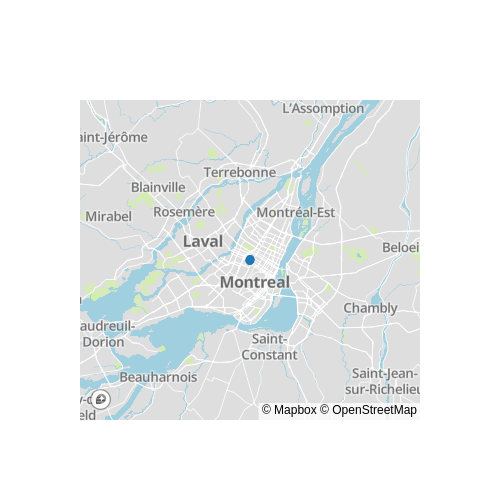
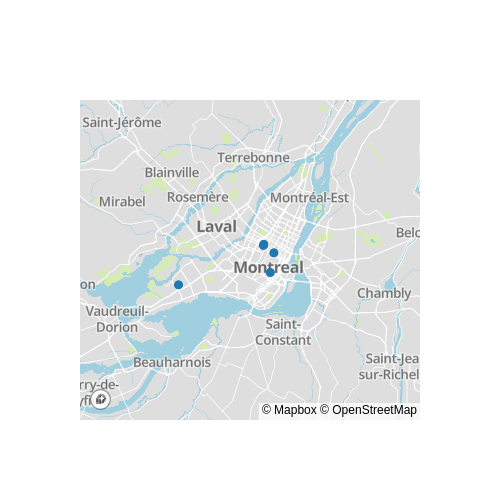
async prototype works

diff --git a/index.js b/index.js
@@ -8,23 +8,6 @@ const fs = require('fs');
 var FormData = require('form-data');
 
 
-// async function asyncTask () {
-//   try {
-//     // coords is errormsg or places array
-//     const places = await getCoords();
-//     const coords = await cleanCoords(places);
-//     const file_location = await plot.makePlot(clean_coords);
-
-//     const mediaId = await getMediaId(fileLocation);
-//     // console.log("returning info from getCoords\n",coords)
-//     const requestConfig = await buildConfig(message,senderScreenName,coords,mediaId)
-//     //console.log(requestConfig);
-//     return await post(requestConfig);
-//   } catch (err) {
-//     console.log(err);
-//   }
-// }
-
 const post = util.promisify(request.post);
 
 
@@ -35,44 +18,47 @@ const oAuthConfig = {
   consumer_secret: process.env.TWITTER_CONSUMER_SECRET,
 };
 
-const botId = "24737459"
+const botId = process.env.BOT_ID;
 const errorMsg = "No results returned";
 const errorGeo = "No geo results";
+const pngLocation = './res.png'
+
 
 async function cleanCoords(rawCoords) {
-  console.log("places array", rawCoords);
+  console.log("raw Coords", rawCoords);
   var clean_coords = [];
   rawCoords.forEach(function(item,index) {
     clean_coords.push(item.geo.bbox.slice(0,2))
   });
   return clean_coords
 }
-//UPLOAD FILE AND GET MEDIA ID
-async function getMediaId(fileLocation) {
-  console.log("IN MEDIA ID here is fileLocation", fileLocation);
-  var data = new FormData();
-  data.append('media_data', fs.createReadStream(fileLocation));
 
-  var configMediaId = {
+//UPLOAD FILE AND GET MEDIA ID
+async function getMediaId(base64Location) {
+  var data = new FormData();
+  data.append('media_data', fs.createReadStream(base64Location));
+
+  var config = {
     method: 'post',
     url: 'https://upload.twitter.com/1.1/media/upload.json',
     headers: { 
-      'Authorization': 'OAuth oauth_consumer_key="pufmcF3kGmpDVFcvDbbYaengK",oauth_token="24737459-topbrUHGWHQkZXfMqctnOQ77XwAdr9ERAhlUOKG0s",oauth_signature_method="HMAC-SHA1",oauth_timestamp="1598194653",oauth_nonce="SZIm2rGaT4U",oauth_version="1.0",oauth_signature="R1hllzvQdzTDwbbPfpP9IWndFUk%3D"', 
-      'Cookie': 'personalization_id="v1_5lhFvw9qvMPnaFzOpi7UwA=="; guest_id=v1%3A159804355865560354; lang=en', 
+      'Authorization': `OAuth oauth_consumer_key=${oAuthConfig.consumer_key},oauth_token=${oAuthConfig.token},oauth_signature_method="HMAC-SHA1",oauth_timestamp="1598333093",oauth_nonce="MDtu575iz2J",oauth_version="1.0",oauth_signature="FrA5543kyHi1LS90UpemSkZbS6Q%3D"`, 
+      'Cookie': 'personalization_id="v1_xQuSglKogja1ug6Y/z6g1w=="; guest_id=v1%3A159804361564129710; lang=en', 
       ...data.getHeaders()
     },
     data : data
   };
+
   try {
-    const response = await axios(configMediaId)
+    const response = await axios(config)
     return response.data.media_id_string;
   }
   catch (error) {
     console.log('media ID error :(', error);
   }
-
 }
 
+// Uses Bearer token btw
 async function getCoords(hashtag) {
   var config = {
     method: 'get',
@@ -105,7 +91,7 @@ async function getCoords(hashtag) {
   }
 }
 
-async function errorConfig(message,senderScreenName,error_msg) {
+async function buildErrorConfig(message,senderScreenName,error_msg) {
   const requestConfig = {
     url: 'https://api.twitter.com/1.1/direct_messages/events/new.json',
     oauth: oAuthConfig,
@@ -188,21 +174,23 @@ async function mainLogic(event) {
   
   try {
 
-    // getCoords checks for errors then returns coordindates
+    // getCoords returns raw_coordinates or error message
     const raw_coords = await getCoords(cleanHashtag);
 
-    // getPlaces cleans the data, returns it
-    const cleanedCoords = await cleanCoords(raw_coords);
-
-    const fileLocation = './res.png'
-
-    const file64 = await plot.buildPlot(fileLocation,cleanedCoords)
-    console.log("what is file64", file64);
-    const mediaId = await getMediaId(file64);
-    // console.log("returning info from getCoords\n",coords)
-    const requestConfig = await buildConfig(message,senderScreenName,mediaId)
-    //console.log(requestConfig);
-    await post(requestConfig);
+    if (raw_coords == errorMsg || raw_coords == errorGeo) {
+      const errorConfig = await buildErrorConfig(message,senderScreenName,raw_coords);
+      await post(errorConfig);
+    }
+    else {
+      // getPlaces cleans the data, returns it
+      const cleanedCoords = await cleanCoords(raw_coords);
+      const base64Location = await plot.buildPlot(pngLocation,cleanedCoords)
+      const mediaId = await getMediaId(base64Location);
+      // console.log("returning info from getCoords\n",coords)
+      const requestConfig = await buildConfig(message,senderScreenName,mediaId)
+      //console.log(requestConfig);
+      await post(requestConfig);
+    }
 
   } catch (err) {
     console.log('we threw an error', err);
@@ -212,6 +200,7 @@ async function mainLogic(event) {
 (async start => {
   try {
     const webhook = new Autohook();
+
     // Calls mainlogic on any event
     webhook.on('event', async event => {
       if (event.direct_message_events) {

diff --git a/plot.js b/plot.js
@@ -1,13 +1,11 @@
-// const os = require('os');
-// const path = require('path');
+const os = require('os');
+const path = require('path');
 
-//require('dotenv').config({path: path.resolve(os.homedir(), '.env.twitter')});
-const PLOTLY_API= "1QIeQ64d1ovLY5OggTdv"
-const PLOTLY_USER= "tony-goss"
+require('dotenv').config({path: path.resolve(os.homedir(), '.env.twitter')});
 
 const util = require('util');
 
-var plotly = require('plotly')(PLOTLY_USER,PLOTLY_API)
+var plotly = require('plotly')(process.env.PLOTLY_USER,process.env.PLOTLY_API)
 var fs = require('fs');
 
 const l_util = require('./local_utils.js')
@@ -76,45 +74,43 @@ function makePlot(clean_coords) {
 
 //const promiseWritePlot = util.promisify(plotly.getImage);
 // Writes image to file on resolve
-let promiseWritePlot = function(mapConfig,fileLocation) {
+let promiseWritePlot = function(mapConfig,pngLocation) {
   return new Promise((resolve, reject) => {
     plotly.getImage(mapConfig.figure, mapConfig.imgOpts, (err, imageStream) => {
       if (err) reject(err)
       else {
-      	const fileStream = fs.createWriteStream('./res.png')
-      	imageStream.pipe(fileStream);
-      	resolve('./res.png');
+	      	const fileStream = fs.createWriteStream(pngLocation)
+	      	imageStream.pipe(fileStream);
+	      	fileStream.on('finish', () => {
+	  				console.log('All writes are now complete.');
+						readFile(pngLocation).then(function (data) {
+							console.log(`Length of the file1: ${data.length}`);
+							resolve(data);
+						});
+					});
       } 
     });
   })
 }
 
-/*
-let promiseTo64 = function(fileLocation) {
-		readFileContent('./res.png') 
-		// If promise resolved and datas are read  
-		.then(buff => { 
-		  const contents = buff.toString('base64');
-		  console.log(`Length of the file :\n${buff.length}`); 
-		}); 
-}
-*/
 
 async function write64 (pngLocation) {
-	const base64Location = 'png_64';
+	const base64Location = './png_64';
 	const buff = await readFile(pngLocation);
-	const contents = await buff.toString('base64');
+	const contents = buff.toString('base64');
+	console.log(`Length of the file2 - confirm: ${buff.length}`);
 	await writeFile(base64Location,contents);
+	//console.log(`Length 2 of the file :\n${buff.length}`);
 	return base64Location;
 }
 
-async function buildPlot (fileLocation,cleanedCoords) {
+async function buildPlot (pngLocation,cleanedCoords) {
 
   const mapConfig = await makePlot(cleanedCoords);
 
-	const imageLoc = await promiseWritePlot(mapConfig,fileLocation);
+	const imageLoc = await promiseWritePlot(mapConfig,pngLocation);
 
-	const file64 = await write64(fileLocation);
+	const file64 = await write64(pngLocation);
 	return file64;
 }
 
@@ -125,9 +121,10 @@ module.exports = {
 
 
 async function temp () {
+	console.log(process.env);
 	const res = await buildPlot('./res.png',[[-73.623,45.54],[-73.624,45.538]])
-
-	console.log("end of temp ",res);
+	// await write64('./res.png');
+	console.log("end of temp ", res);
 }
 
-temp();
+// temp();
